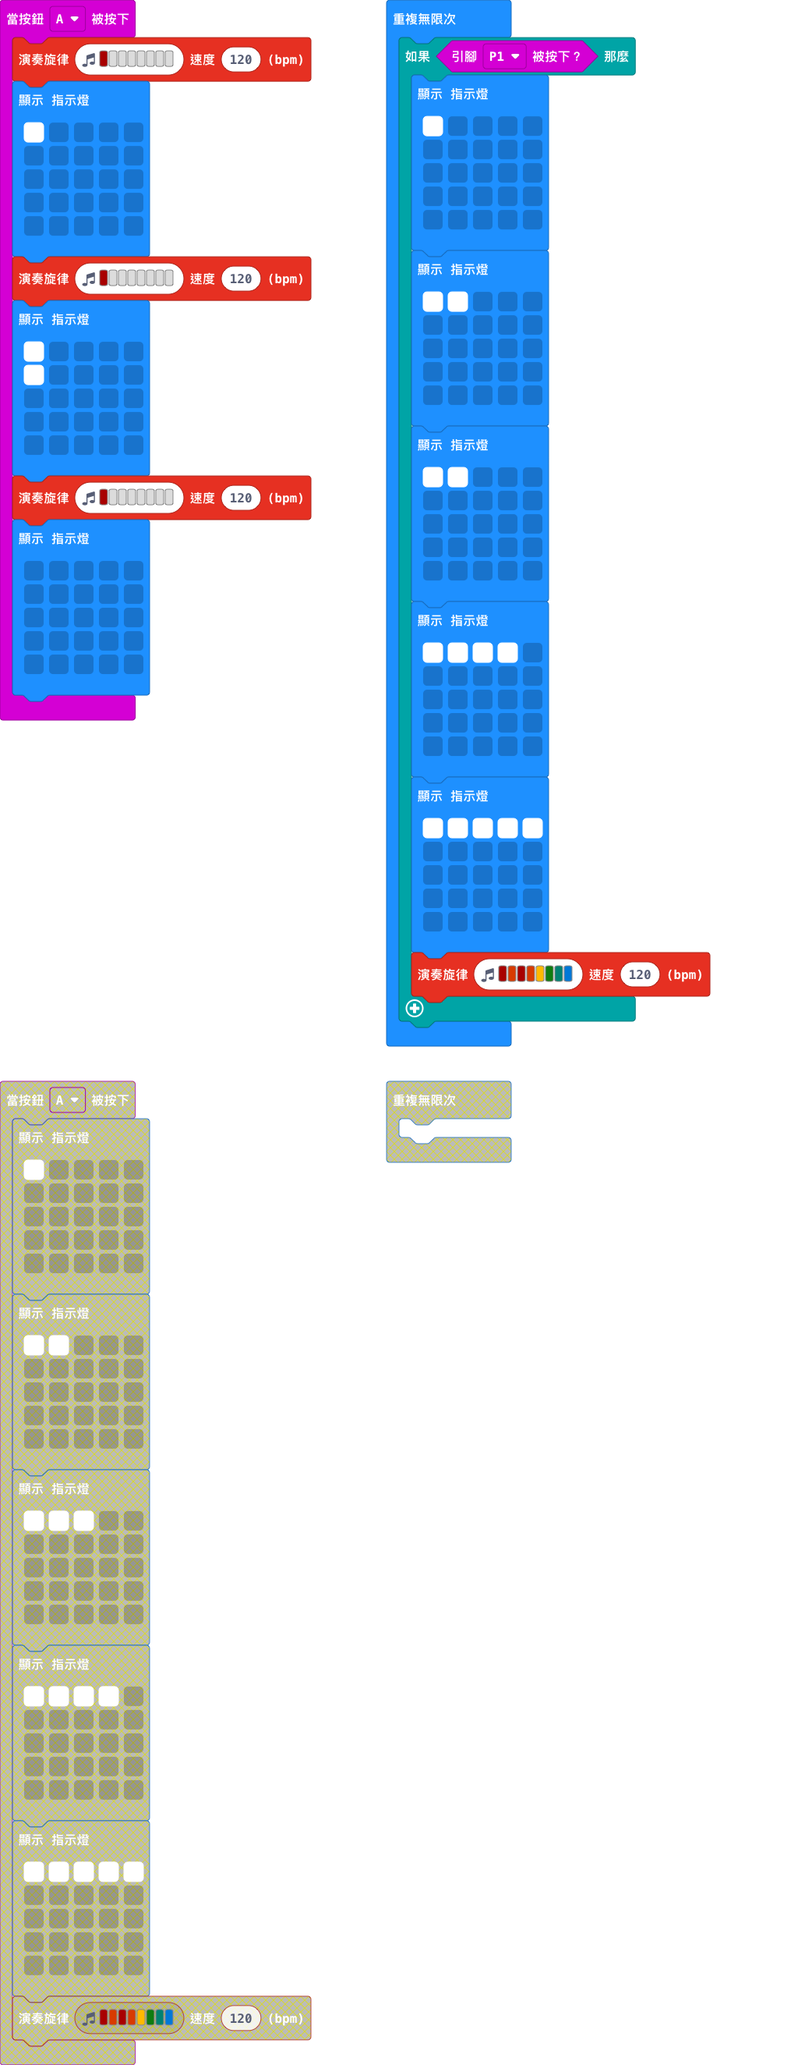
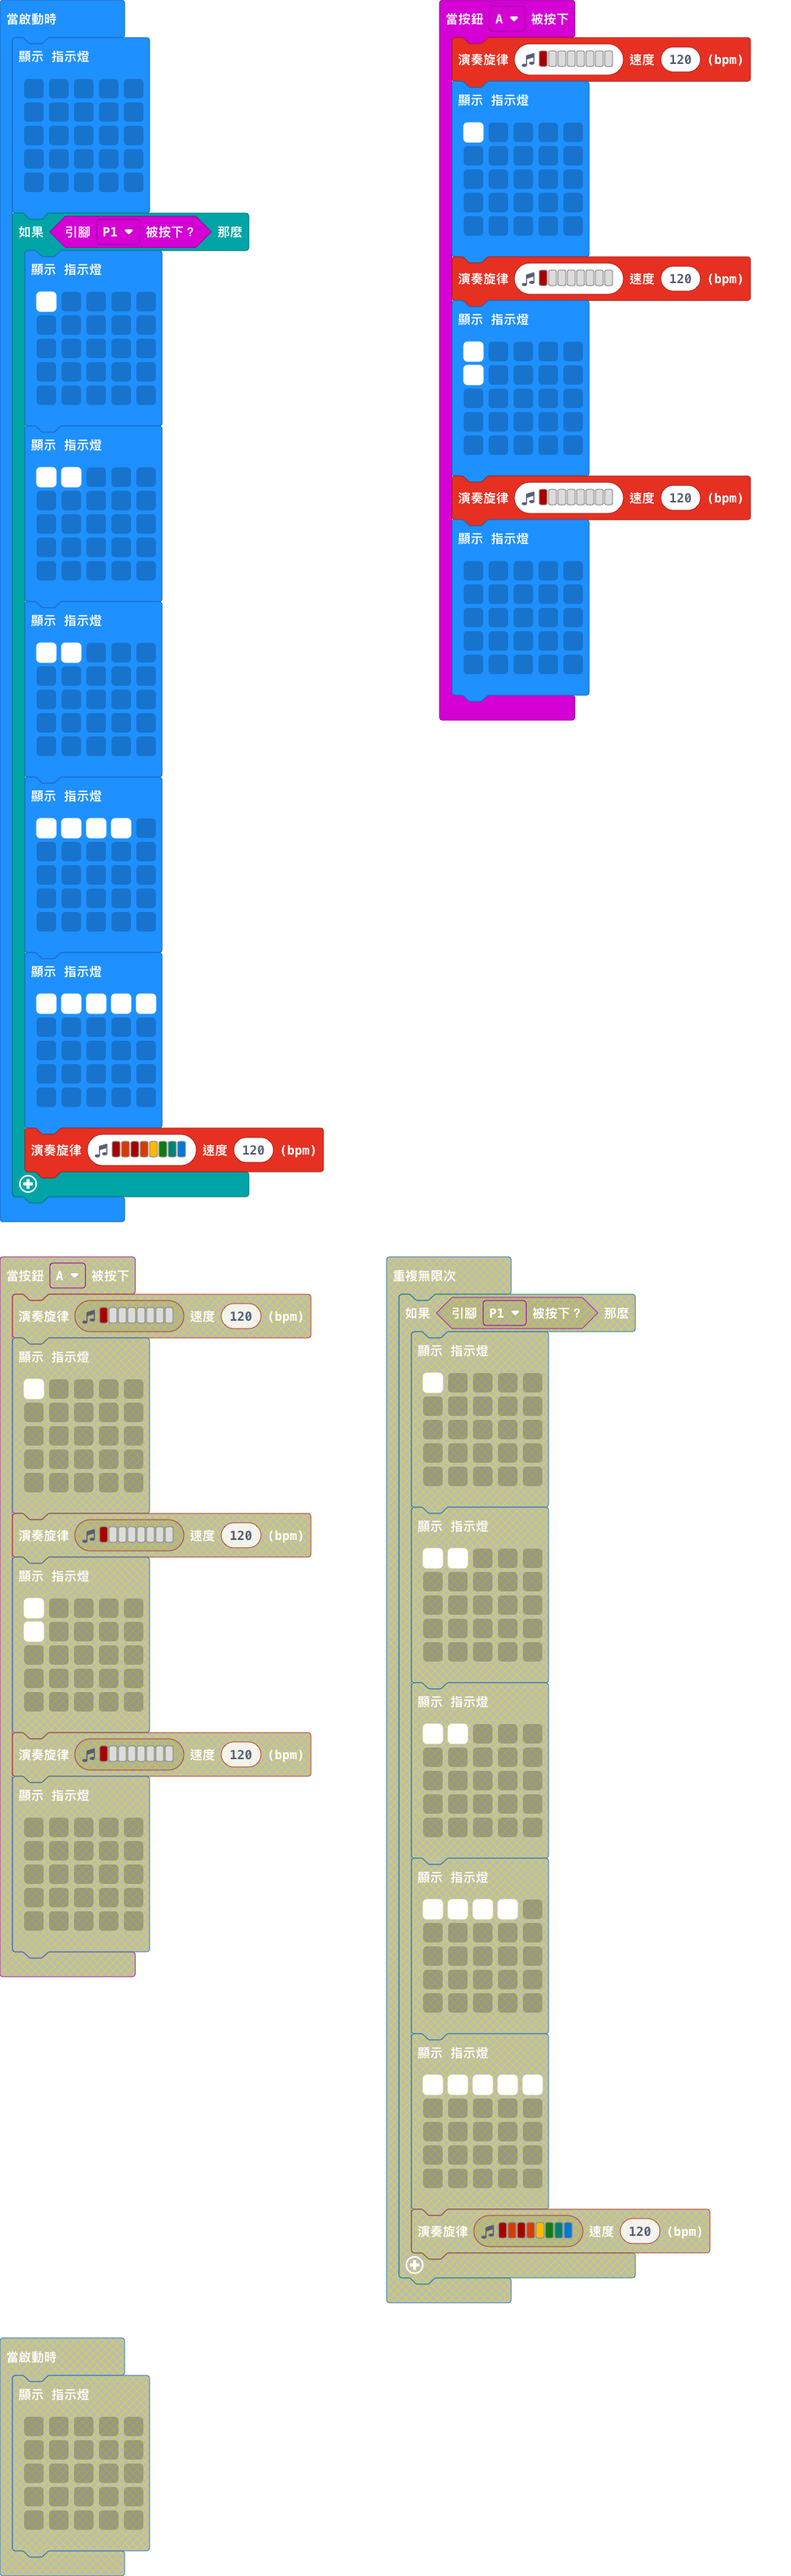
更新 main.blocks, main.ts, main.py

diff --git a/main.ts b/main.ts
@@ -31,43 +31,41 @@ basic.showLeds(`
     . . . . .
     . . . . .
     `)
-basic.forever(function () {
-    if (input.pinIsPressed(TouchPin.P1)) {
-        basic.showLeds(`
-            # . . . .
-            . . . . .
-            . . . . .
-            . . . . .
-            . . . . .
-            `)
-        basic.showLeds(`
-            # # . . .
-            . . . . .
-            . . . . .
-            . . . . .
-            . . . . .
-            `)
-        basic.showLeds(`
-            # # . . .
-            . . . . .
-            . . . . .
-            . . . . .
-            . . . . .
-            `)
-        basic.showLeds(`
-            # # # # .
-            . . . . .
-            . . . . .
-            . . . . .
-            . . . . .
-            `)
-        basic.showLeds(`
-            # # # # #
-            . . . . .
-            . . . . .
-            . . . . .
-            . . . . .
-            `)
-        music.playMelody("C5 B C5 B A G F E ", 120)
-    }
-})
+if (input.pinIsPressed(TouchPin.P1)) {
+    basic.showLeds(`
+        # . . . .
+        . . . . .
+        . . . . .
+        . . . . .
+        . . . . .
+        `)
+    basic.showLeds(`
+        # # . . .
+        . . . . .
+        . . . . .
+        . . . . .
+        . . . . .
+        `)
+    basic.showLeds(`
+        # # . . .
+        . . . . .
+        . . . . .
+        . . . . .
+        . . . . .
+        `)
+    basic.showLeds(`
+        # # # # .
+        . . . . .
+        . . . . .
+        . . . . .
+        . . . . .
+        `)
+    basic.showLeds(`
+        # # # # #
+        . . . . .
+        . . . . .
+        . . . . .
+        . . . . .
+        `)
+    music.playMelody("C5 B C5 B A G F E ", 120)
+}

diff --git a/main.py b/main.py
@@ -1,3 +1,72 @@
-def on_forever():
-    pass
+def on_button_pressed_a():
+    music.play_melody("C5 - - - - - - - ", 120)
+    basic.show_leds("""
+        # . . . .
+                . . . . .
+                . . . . .
+                . . . . .
+                . . . . .
+    """)
+    music.play_melody("C5 - - - - - - - ", 120)
+    basic.show_leds("""
+        # . . . .
+                # . . . .
+                . . . . .
+                . . . . .
+                . . . . .
+    """)
+    music.play_melody("C5 - - - - - - - ", 120)
+    basic.show_leds("""
+        . . . . .
+                . . . . .
+                . . . . .
+                . . . . .
+                . . . . .
+    """)
+input.on_button_pressed(Button.A, on_button_pressed_a)
+
+basic.show_leds("""
+    . . . . .
+        . . . . .
+        . . . . .
+        . . . . .
+        . . . . .
+""")
+if input.pin_is_pressed(TouchPin.P1):
+        basic.show_leds("""
+            # . . . .
+                        . . . . .
+                        . . . . .
+                        . . . . .
+                        . . . . .
+        """)
+        basic.show_leds("""
+            # # . . .
+                        . . . . .
+                        . . . . .
+                        . . . . .
+                        . . . . .
+        """)
+        basic.show_leds("""
+            # # . . .
+                        . . . . .
+                        . . . . .
+                        . . . . .
+                        . . . . .
+        """)
+        basic.show_leds("""
+            # # # # .
+                        . . . . .
+                        . . . . .
+                        . . . . .
+                        . . . . .
+        """)
+        basic.show_leds("""
+            # # # # #
+                        . . . . .
+                        . . . . .
+                        . . . . .
+                        . . . . .
+        """)
+        music.play_melody("C5 B C5 B A G F E ", 120)
 basic.forever(on_forever)
